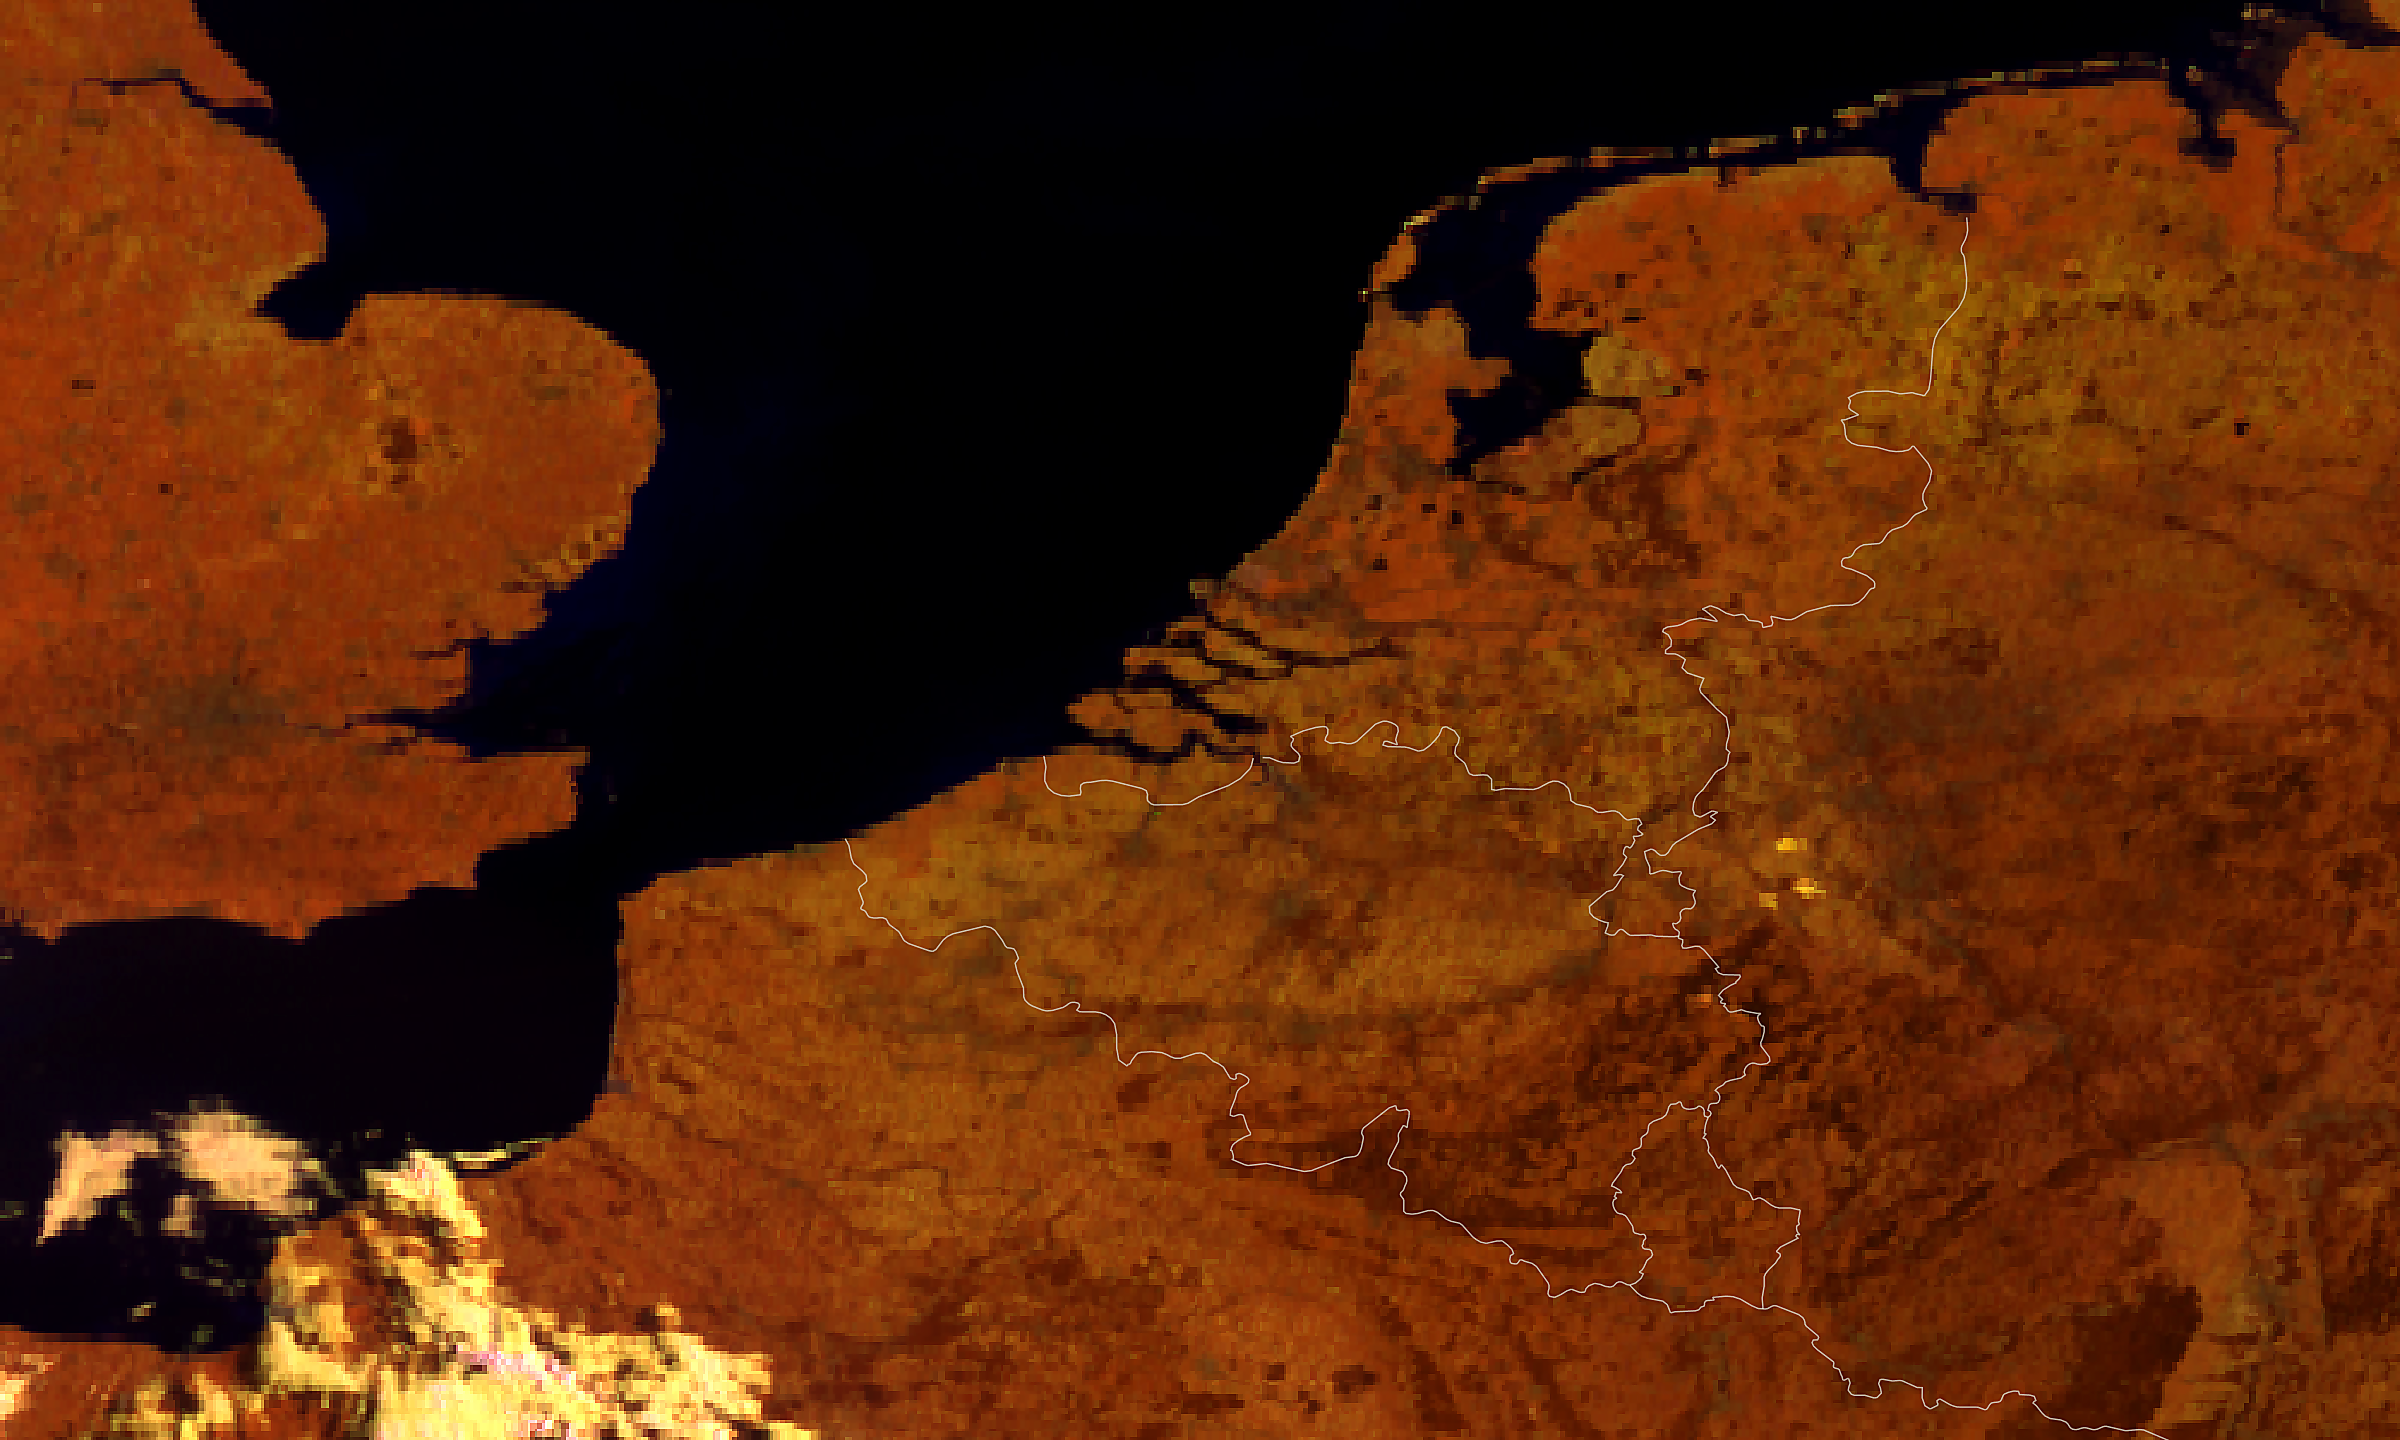
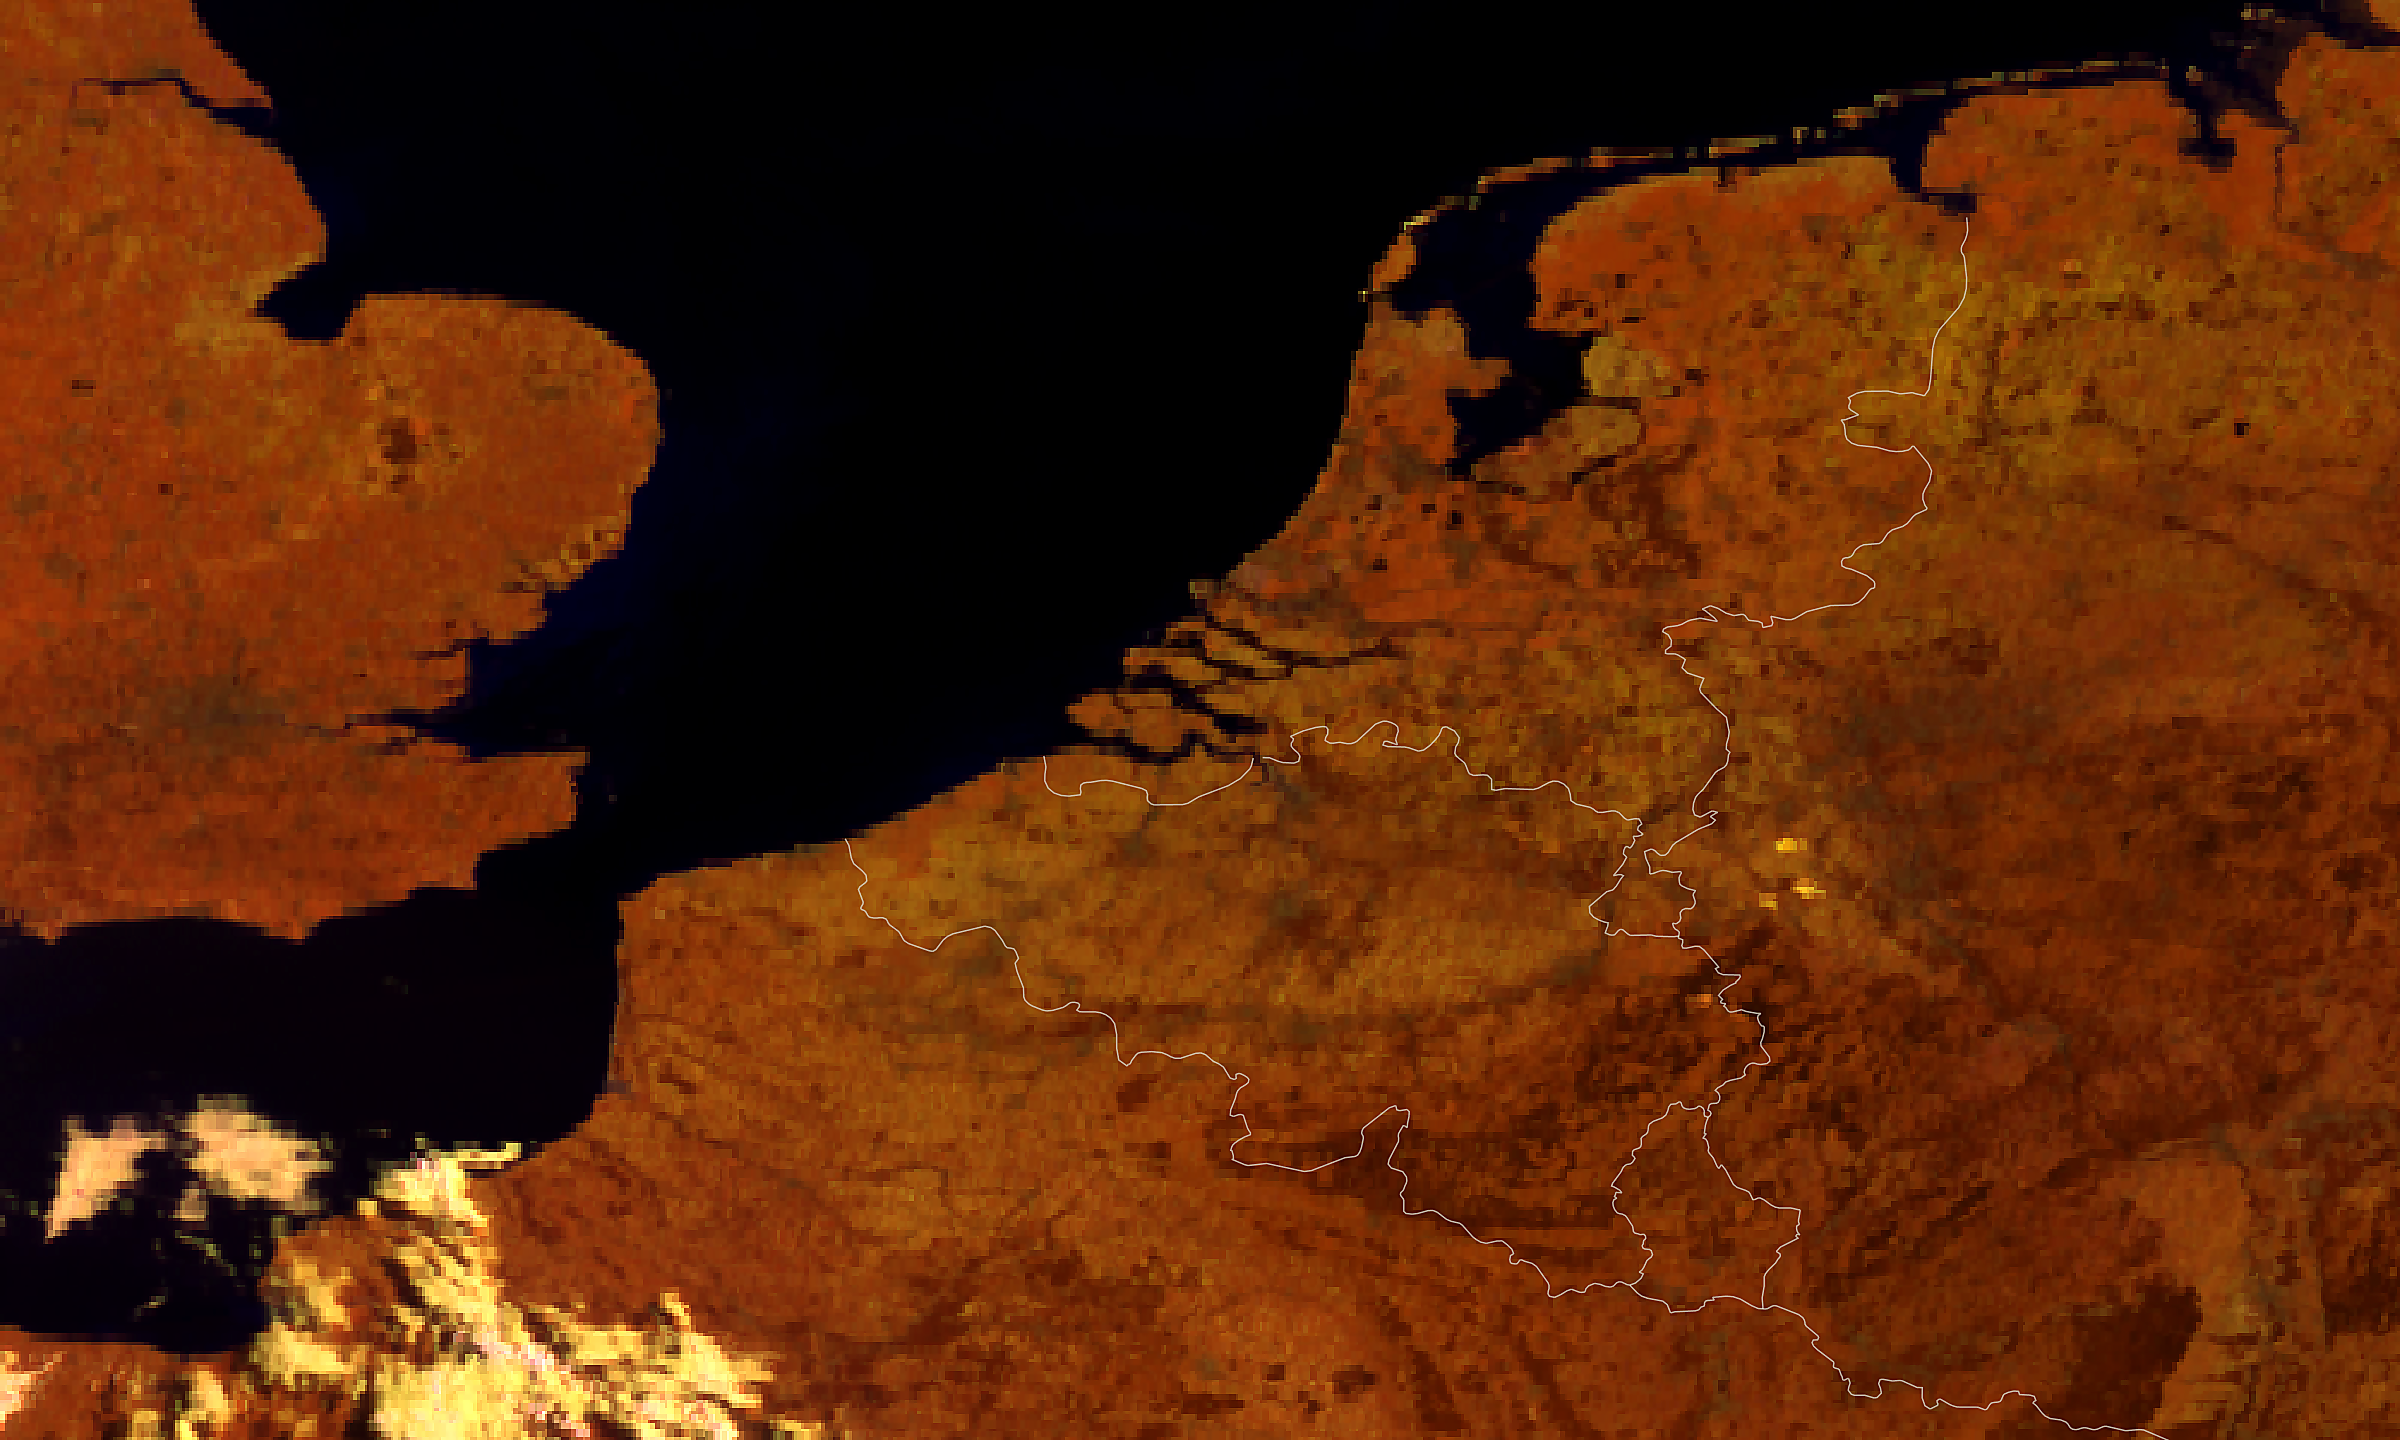
MTG Benelux satellietbeeld update 2026-05-01 09:45

Changed region(s): [[0.0, 0.75, 0.3438, 1.0]]

diff --git a/mtg_benelux_meta.js b/mtg_benelux_meta.js
@@ -1,2 +1,2 @@
 const MTG_BENELUX_PRODUCT = "mtg_fd:rgb_cloudphase";
-const MTG_BENELUX_TIJD = "2026-05-01T07:10:00Z";
+const MTG_BENELUX_TIJD = "2026-05-01T07:20:00Z";
